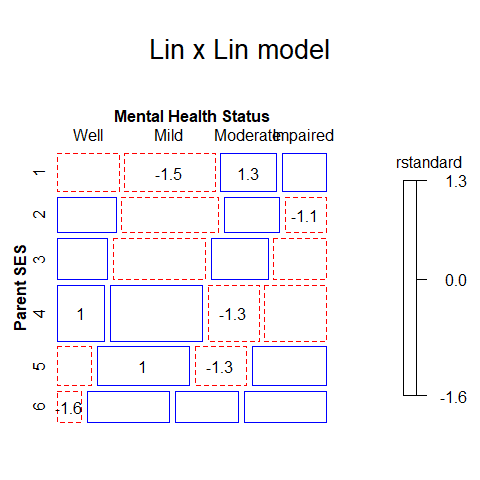
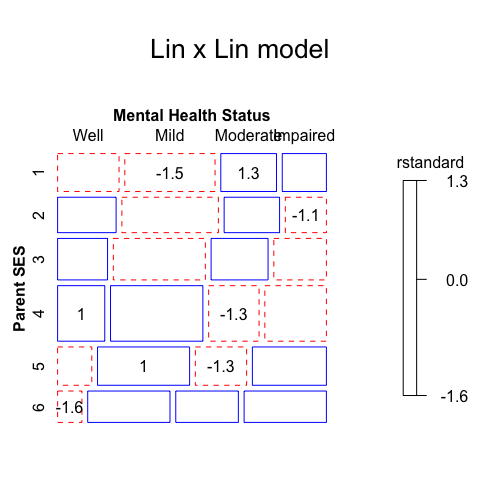
Knit README.Rmd

diff --git a/README.md b/README.md
@@ -23,13 +23,18 @@ Bluesky](https://img.shields.io/badge/Bluesky-0285FF?logo=bluesky&logoColor=0285
 
 <!-- badges: end -->
 
-# vcdExtra <img src="man/figures/logo.png" style="float:right; height:200px;" />
+<p>
+
+<img align="right" src="man/figures/logo.png" height="200px">
+</p>
+
+# vcdExtra
 
 ## Extensions and additions to vcd: Visualizing Categorical Data
 
 <!-- Version 0.8-6 -->
 
-Version 0.9.5; documentation built for `pkgdown` 2026-04-02
+Version 0.9.5; documentation built for `pkgdown` 2026-05-27
 
 This package provides additional data sets, documentation, and many
 functions designed to extend the